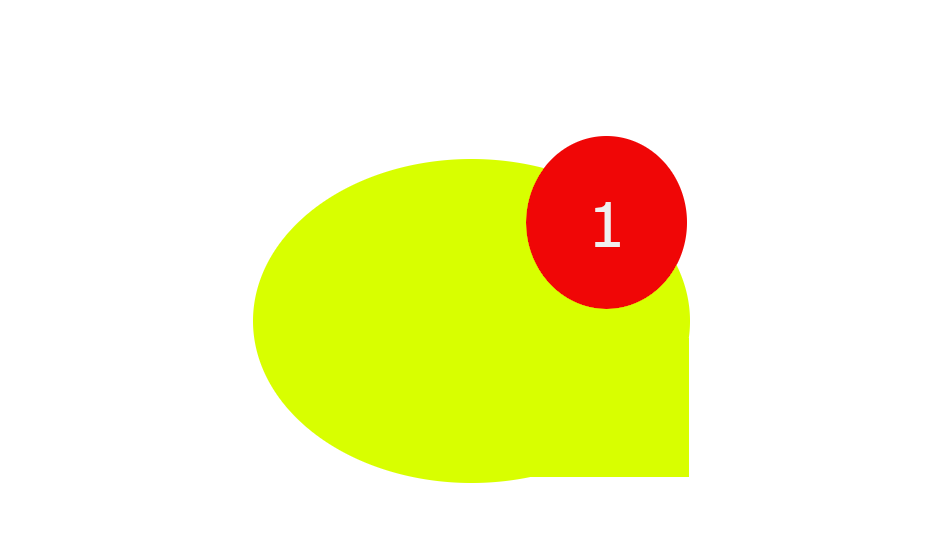
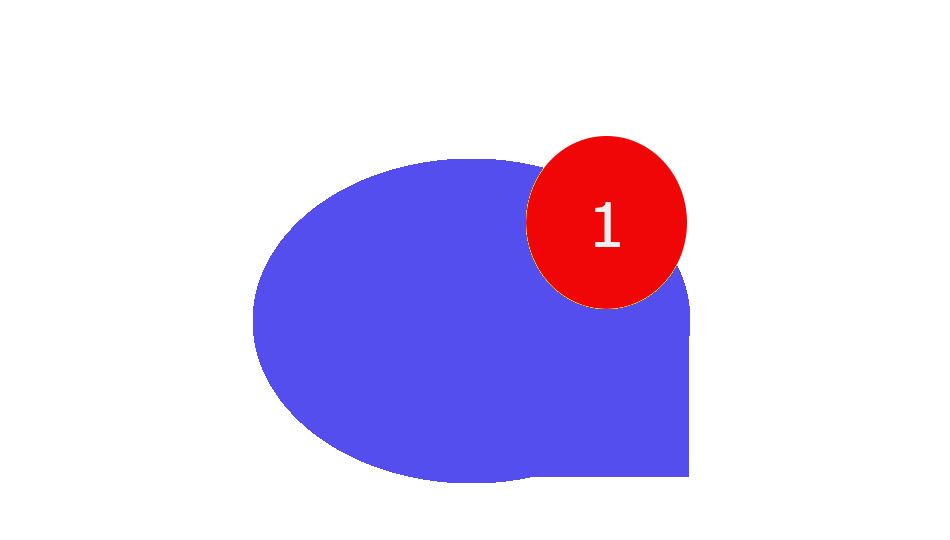
lkj

Changed region(s): [[0.2442, 0.2963, 0.7326, 0.9185]]

diff --git a/techstil.css b/techstil.css
@@ -1,5 +1,5 @@
          body{
-                background-image: url("bilete/tech2.png");
+                background-image: url("bilete/tech3.png");
                 min-height: 100vh;
                 background-size: cover;
                 background-position: center bottom;
@@ -11,7 +11,8 @@
             .kol-4{grid-column:span 4;}
             .kol-5{grid-column:span 5;}
             .kol-6{grid-column:span 6;
-            background-color: darkslategray;
+            background-color: royalblue;
+            filter: opacity(93%);
 }
             .kol-7{grid-column:span 7;}
             .kol-8{grid-column:span 8;}
@@ -33,6 +34,7 @@
                 flex-direction: row;
                 align-items: center;
                 justify-content: space-between;
+                filter: opacity(85%)
             }
             @media (max-width:900px){
                 header > nav{
@@ -48,7 +50,7 @@
                 font-family: verdana;
             }
             nav .heim{
-                background-color: darkslategray;
+                background-color: royalblue;
                 font-weight: 800;
                 font-size: 40px;
                 padding: 5px;
@@ -61,7 +63,7 @@ article{
 }
 article > p{
     font-family: verdana;
-    color: antiquewhite;
+    color: whitesmoke;
     font-size: 20px;
     margin: 5px;
 }
@@ -70,7 +72,7 @@ ul{
     color: ghostwhite;
 }
 #prosessor{
-    width: 100%;
+    width: 90%;
 
 }
 #informasjon{
@@ -96,5 +98,8 @@ h1{
     padding: 5px;
 }
 #sosial{
-    width: 100%;
+    width: 121%;
+}
+.socialstat{
+    width: 120%;
 }

diff --git a/statistikk.html b/statistikk.html
@@ -8,15 +8,17 @@
     <body>
     <header>
     <nav>
-            <a href="index.html" class="heim">Hovudsida</a>
+        <a href="index.html" class="heim">Hovudsida</a>
         <a href="datautstyr.html"> Fysiske signal i datautstyr<img src="bilete/bulb2.png" id="ikon"></a>
-            <a href="sosialemedium.html">>Sosiale Medium <img src="bilete/notification.png" id="ikon2"> </a>
+        <a href="sosialemedium.html">>Sosiale Medium <img src="bilete/notification.png" id="ikon2"> </a>
     </nav>
 </header>
         <main>   <article class="kol-6"><a href="intro.html">Introduksjon til sosiale medium</a></article>
             <article class="kol-6"><a href="statistikk.html">>Statistikk</a></article>
-            <article class="kol-6"></article>
-            <article class="kol-6"></article>
+            <article class="kol-6"><p>Som ein kan sjå på biletet ved siden av, er ein massiv del av verdas befolking på sosiale medium, eller har tilgang til sosiale medium. </p></article>
+            <article class="kol-5"><img src="bilete/sosialstat.png" class="socialstat"></article>
+            <article class="kol-6"><p>I tillegg har prosentvis av befolkinga aukt drastisk i løpet av dei siste åra.</p></article>
+            <article class="kol-5"><img src="bilete/sosialstat2.png" class="socialstat"></article>
         </main>
     </body>
 </html>

diff --git a/intro.html b/intro.html
@@ -13,9 +13,8 @@
         </header>
         <main>   <article class="kol-6"><a href="intro.html">>Introduksjon til sosiale medium</a></article>
             <article class="kol-6"><a href="statistikk.html">Statistikk</a></article>
-            <article class="kol-6"><h1>Sosiale medium</h1><p>er plattformar på internet me kan bruke for å kommunisere og legge ut statusar og bilder. Facebook, Twitter og Instagram er eksempler på sosiale medier.  </p></article>
+            <article class="kol-6"><p>Internet, sosiale medium og så rask kommunikasjon som me har i dag er alt veldig nytt. Det er fortsatt uvisst korleis dette påverker oss. Det vert ofte gjort både sosiale og psykologiske undersøkingar for  å prøve å finne ut av dette.  </p></article>
             <article class="kol-5"><img src="bilete/socialmedia.jpg" id="sosial"></article>
-            <article class="kol-6"><p>Internet, sosiale medium og så rask kommunikasjon som me har i dag er relativt nytt. Det er fortsatt uvisst korleis dette påverker oss, og det vert gjort både sosiale og psykologiske undersøkingar heile tida for  å prøve å finne ut av dette.  </p></article>
         </main>
     </body>
 </html>

diff --git a/index.html b/index.html
@@ -16,17 +16,18 @@
         <main>
             <article class="kol-6">
                 <p class="informasjon">Kvar dag er me i kontakt med digitale gjenstandar som også har tilgang til kommunikasjon med andre. Likevel er det få som veit korleis desse digitale dingsane verkeleg fungerer.</p>
-            </article><article class="kol-6"><p>På denne nettisda kan du lese og lære om:</p>
+            </article>
+            <article class="kol-6"><p>På denne nettisda kan du lese og lære om:</p>
             <ul>
                 <li>Fysiske signal i datautstyr</li>
                 <li>Sosiale medium</li>
                 </ul>
                 <p>Gå til sidene i navigasjonen.</p>
                 </article>
-            <article class="kol-2"></article>
-            <article class="kol-8">
+            <article class="kol-3"></article>
+            <article class="kol-7">
             <img src="bilete/prosessor.jpg" id="prosessor"> </article>
-            <article class="kol-2"></article>
+            <article class="kol-3"></article>
         </main>
         <footer>
         </footer>

diff --git a/sosialemedium.html b/sosialemedium.html
@@ -16,6 +16,10 @@
         <main>
             <article class="kol-6"><a href="intro.html">Introduksjon til sosiale medium</a></article>
             <article class="kol-6"><a href="statistikk.html">Statistikk</a></article>
+            <article class="kol-3"></article>
+            <article class="kol-6"><h1>Sosiale medium</h1><p>er plattformar på internet me kan bruke for å kommunisere og legge ut statusar og bilder. Facebook, Twitter og Instagram er eksempler på sosiale medier.</p>
+            </article>
+            <article class="kol-3"></article>
         </main>
         <footer>
         </footer>
